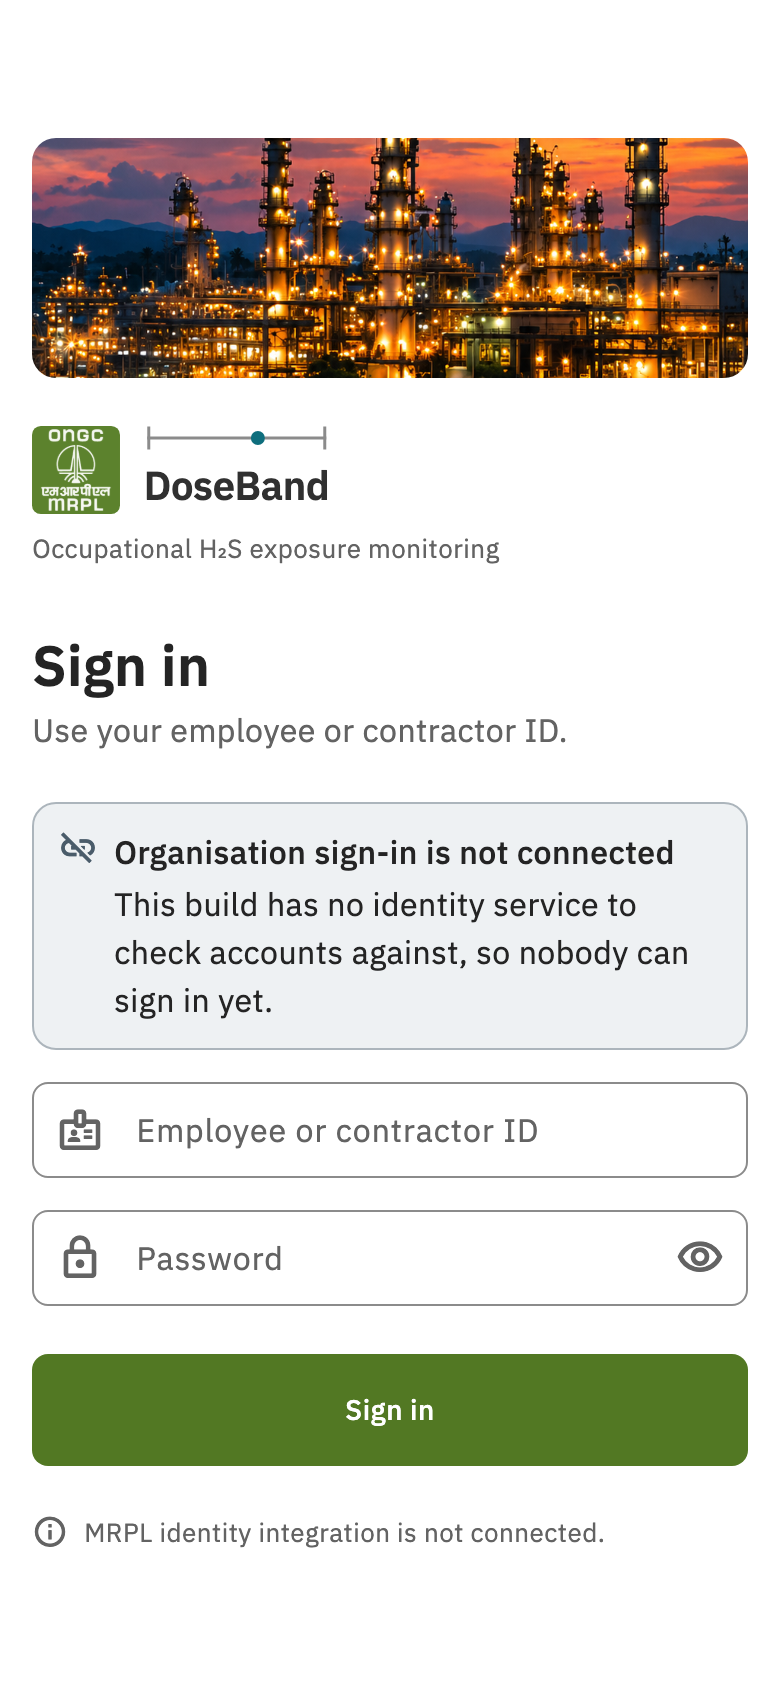
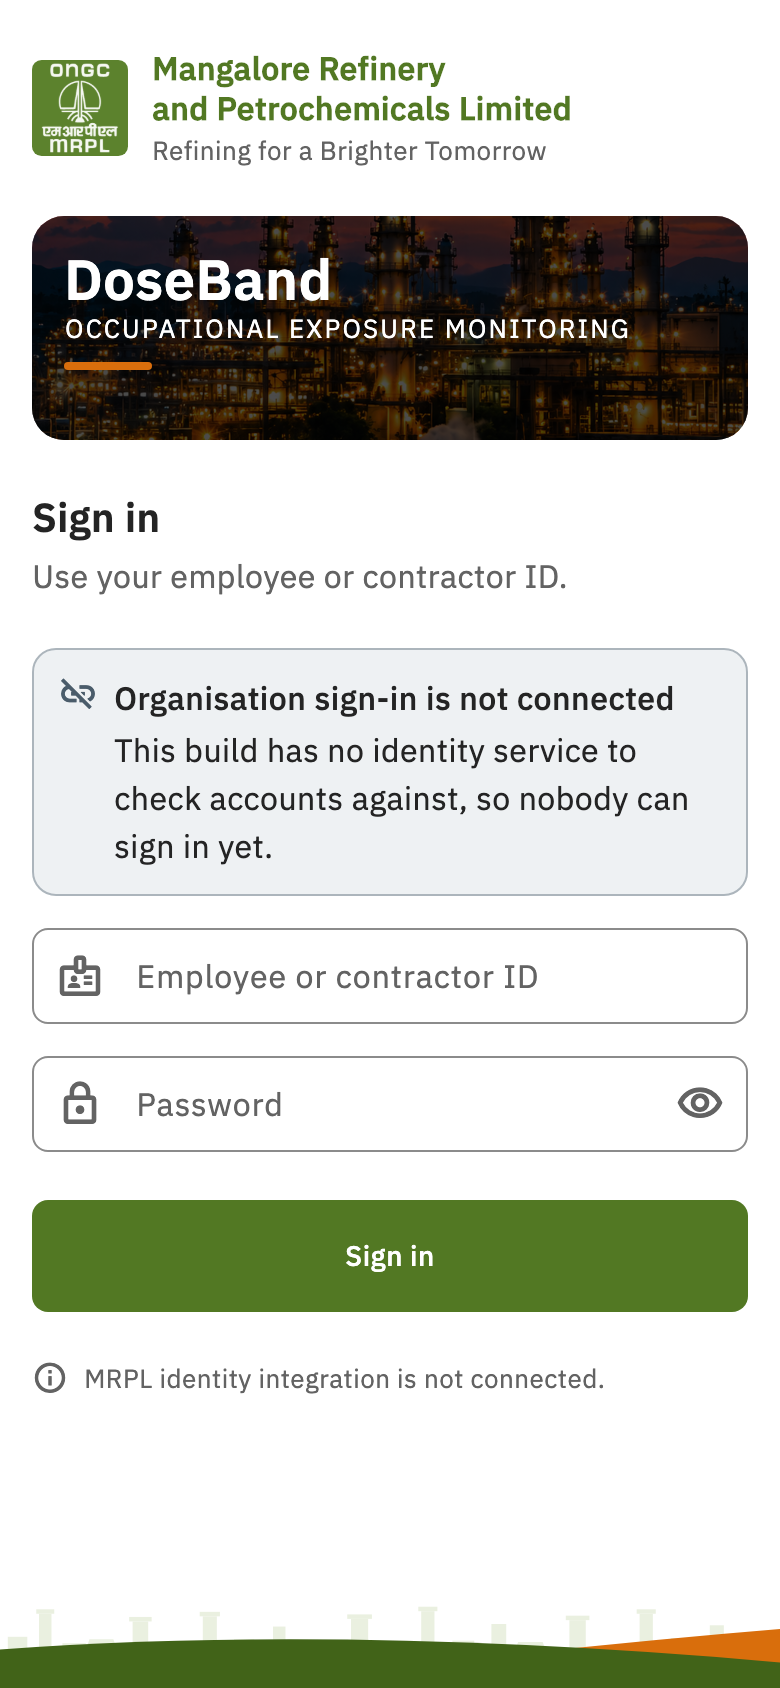
release: 0.4.0+4 — UI recovery; docs and screenshot index
Version 0.4.0+4. UI recovery note (sources, what came back, what did
not and why, responsive rules, the Home fold trade-off); screenshot
index regenerated with recovered, preserved and flow renders; test
matrix and functional matrix updated.

diff --git a/app/lib/core/env/app_version.dart b/app/lib/core/env/app_version.dart
@@ -8,4 +8,4 @@
 /// specimen.** Two builds carrying the same version make their captures
 /// indistinguishable, and a mid-session hotfix is exactly when that happens.
 /// APP-INTEGRATION-01 §49.
-const String appVersion = '0.3.0+3';
+const String appVersion = '0.4.0+4';

diff --git a/docs/design/screenshots/product-build-v1/README.md b/docs/design/screenshots/product-build-v1/README.md
@@ -1,30 +1,59 @@
 # Product Build v1 — screenshot index
 
-Rendered from the golden tests at `8aa5355`/0.3.0+3 (Flutter test renderer,
-IBM Plex, light theme, presentation dataset, clock pinned to 27 Sep 2026).
-These are test renders, **not phone captures**: no physical device was
-available in this run. Each was inspected by eye.
+Rendered from the golden tests at 0.4.0+4 (UI recovery; Flutter test
+renderer, IBM Plex, light theme, presentation dataset, clock pinned to
+27 Sep 2026). These are test renders, **not phone captures**: no physical
+device was available. Each was inspected by eye.
 
-| Surface (§167) | File |
+## Recovered (corrective directive §3)
+
+| Surface | File |
 |---|---|
-| Splash | `auth-splash-light.png` |
-| Sign in | `auth-sign-in-light.png`, `auth-sign-in-refused.png`, `auth-sign-in-not-connected.png` (production), `auth-presentation-accounts.png` |
-| Worker Home — no DoseBand (A) | `home-a-no-doseband.png` |
-| Pre-use validation | covered by `test/doseband/claim_journey_test.dart`; no golden (camera) |
+| Splash | `auth-splash-light.png`; `auth-splash-320-text200.png`, `auth-splash-landscape-844x390.png`, `auth-splash-tablet-800x1280.png` |
+| Sign in / role entry | `auth-sign-in-light.png`, `auth-sign-in-320.png`, `auth-sign-in-compact-large-text.png`, `auth-sign-in-refused.png`, `auth-sign-in-not-connected.png` (production), `auth-presentation-accounts.png` (role cards) |
+| Worker Home — no DoseBand (A) | `home-a-no-doseband.png`, `home-a-work-recorded.png`, `foundation-shell-home-390.png` |
+| Worker Home — assigned (B) | `home-b-assigned-simulated.png` (development simulation only; a real claim starts monitoring in the same step) |
 | Worker Home — monitoring (C) | `home-c-monitoring.png` |
-| Final scan due (D) | `home-d-final-scan.png` |
-| Completed (E) | `home-e-complete.png` |
+| Worker Home — final scan due (D) | `home-d-final-scan.png` |
+| Worker Home — complete (E) | `home-e-complete.png` |
 | Untrusted clock | `home-attention-untrusted-clock.png` |
-| History | `worker-history.png` |
-| Profile | `worker-profile.png` |
+
+## Preserved (byte-identical goldens before and after the recovery)
+
+| Surface | File |
+|---|---|
+| History populated / empty | `foundation-shell-history-390.png`, `worker-history.png` / `history-empty.png` |
+| Scan (contextual tab) | `foundation-shell-scan-390.png` |
+| Safety | `foundation-shell-safety-390.png`, `safety-hub.png` |
+| Profile | `foundation-shell-profile-390.png`, `worker-profile.png` |
+| Five-item floating navigation | every `foundation-shell-*` render |
+
+## DoseBand flow
+
+| Step | File |
+|---|---|
+| Scanned band, before the photograph | `doseband-check.png` |
+| Pre-use READY / CANNOT VERIFY / REPLACE | `doseband-pre-use-ready.png`, `doseband-pre-use-cannot-verify.png`, `doseband-pre-use-replace.png` |
+| Final scan, wrong band refused | `doseband-final-scan-wrong-band.png` |
+| Final camera | none: needs a camera; covered by `test/doseband/claim_journey_test.dart` with a fake camera port |
+| Result / refusal | `app/test/golden/goldens/result-screen-*.png` (unchanged) |
+
+## Other workspaces (unchanged in this run)
+
+| Surface | File |
+|---|---|
 | Supervisor overview / team / pipeline / exceptions / worker | `supervisor-*.png` |
 | HSE overview / register / traceability / reports | `hse-*.png` |
 | Management overview / monitoring / trends | `management-*.png` |
 | Admin overview / people / inventory / band + QR label / system | `admin-*.png` |
-| Safety | `safety-hub.png` |
-| Development simulation entry | `worker-08-badge-assignment.png` |
-| 200 % text, small phone (320) | `foundation-shell-home-320-text200.png`, `auth-sign-in-compact-large-text.png` |
-| Large phone (430) | `foundation-shell-home-430.png` |
-| Tablet / wide (rail) | `foundation-shell-home-rail-1280x800.png` |
-| Landscape | `foundation-shell-home-landscape-844x390.png` |
-| Offline state | none: the build has no connectivity detection and makes no network calls; every screen states records are on this device |
+
+## Sizes
+
+| Dimension | File |
+|---|---|
+| Small phone 320 at 200 % text | `foundation-shell-home-320-text200.png`, `auth-splash-320-text200.png` |
+| 360 | `foundation-shell-home-360.png` |
+| Large phone 430 | `foundation-shell-home-430.png` |
+| Tablet / wide (rail) | `foundation-shell-home-rail-1280x800.png`, `auth-splash-tablet-800x1280.png` |
+| Landscape | `foundation-shell-home-landscape-844x390.png`, `auth-splash-landscape-844x390.png` |
+| Offline | `foundation-state-offline-in-shell.png` is the component state. The build has no connectivity detection and makes no network calls, so no screen ever enters it. |

diff --git a/docs/design/ui-recovery-0.4.0.md b/docs/design/ui-recovery-0.4.0.md
@@ -1,0 +1,71 @@
+# UI recovery — 0.4.0+4
+
+The corrective directive asked for three approved screens back (splash,
+entry, the rich Worker Home) **as recovery, not redesign**, while keeping
+the newer navigation, History and Scan. It was done by lifting the
+presentation structure out of git history and binding it to the current
+state model. There was no rollback: nothing outside the three screens
+was reverted.
+
+## Sources
+
+| Screen | Recovered from | Current file |
+|---|---|---|
+| Worker Home cards | `0908b43` `home_cards.dart`, `home_screen.dart` | `app/lib/features/home/presentation/home_cards.dart`, `app/lib/features/home/home_screen.dart` |
+| Splash | `5db5c70` `splash_screen.dart`, `auth_background.dart` | `app/lib/features/auth/presentation/screens/splash_screen.dart` |
+| Entry header, footer wave | `5db5c70` `auth_brand_header.dart`, `auth_background.dart`, `role_selection_screen.dart` | `app/lib/features/auth/presentation/widgets/corporate_brand.dart`, `sign_in_screen.dart` |
+
+## What came back
+
+* **Home:**
+  * the refinery header with "Safe People / Sustainable Operations";
+  * an identity card overlapping it, showing name, type, ID, company and local / not-synced storage;
+  * a TODAY'S SHIFT card showing Site, Department, Shift, Work area, Gate pass (masked) and Date;
+  * a WORK CONTEXT card showing Job, PTW, JSA, Toolbox, Supervisor;
+  * the strong green monitoring card, with the orange ACTIVE marker while a period runs;
+  * one state-driven action.
+* **Splash:**
+  * full-screen refinery at dusk;
+  * the MRPL mark and organisation on a plate;
+  * the safety message with its orange rule;
+  * the DoseBand lockup, with the orange progress bar, on a night-green band.
+* **Entry:**
+  * the MRPL header with "Refining for a Brighter Tomorrow";
+  * a refinery strip with the DoseBand lockup;
+  * the skyline footer wave;
+  * the five role cards, now for presentation accounts, one card per person and role.
+
+## What deliberately did not come back
+
+| Old behaviour | Why | Now |
+|---|---|---|
+| DEMO chip on every Home row | Repetition taught people to ignore it | Simulation is marked once, where it applies (the band) |
+| Supervisor string from demo data | Invented | Supervisor comes from the directory, or reads "Not recorded" |
+| Static Home content | Ignored the workflow | Every value comes from the directory, the recorded context or the session |
+| Gradients (splash fade, header, footer sweep) | No-gradient rule (§66; ratchet at 0) | Solid translucent scrims and panels |
+| Four-tab dark navigation | Superseded | The five-item floating navigation, unchanged |
+| Role picker as the sign-in | Roles come from the directory | ID + password; role cards only in the presentation-accounts sheet (non-production) |
+
+## Rules the recovered screens keep
+
+* Home never shows ppm or ppm·h. A green card means "monitoring", not "safe".
+* Work context reads "Recorded by you. Not checked against a permit system; DoseBand does not authorise work."
+* The toolbox talk reads "Acknowledged", never "completed".
+* A gate pass is masked to its last four characters.
+* Presentation accounts are described as sample accounts on this device, and no credentials are shown.
+
+## Responsive behaviour
+
+| Element | Behaviour |
+|---|---|
+| Home header | Stacks its two lockups below 340 px or above 130 % text; caps its own text scale at 150 % (brand only — content scales in full) |
+| Identity card | Moves storage under the details below 340 px; stacks avatar over details above 130 % text |
+| Splash | Caps text at 130 % (a transient composition; its message is also in the semantics label). Bounds the mark by height as well as width; plate at most 480 px wide. Scrolls rather than overflows |
+| Sign-in | The footer wave follows the form and never covers it |
+
+## Known trade-off
+
+On a 390 × 844 phone, Home's primary action sits below the first screen,
+because the directive fixes the order: shift, then work context, then the
+monitoring card and the action. The centre Scan button in the navigation is
+always visible and opens the contextual Scan for the same state.

diff --git a/docs/product/functional-completeness-matrix.md b/docs/product/functional-completeness-matrix.md
@@ -1,4 +1,4 @@
-# Functional completeness matrix — Product Build v1 (0.3.0+3)
+# Functional completeness matrix — Product Build v1 (0.4.0+4)
 
 REAL = works against real inputs · LOCAL_REAL = works, on this device only ·
 SIMULATED = labelled simulation · NOT_CONNECTED = boundary exists, nothing
@@ -7,13 +7,13 @@ PLANNED = not built.
 
 | Capability | Status | Notes |
 |---|---|---|
-| Splash, sign-in, sign-out | LOCAL_REAL | Presentation accounts, salted PBKDF2 verifiers |
+| Splash, sign-in, sign-out | LOCAL_REAL | Presentation accounts, salted PBKDF2 verifiers; approved splash and entry identity recovered in 0.4.0 |
 | Organisation identity (MRPL directory, SSO) | NOT_CONNECTED | Production flavour shows it |
 | Session restore | LOCAL_REAL | Person + role only, re-checked |
 | Role from identity; controlled workspace switch | LOCAL_REAL | Yashvi: management ⇄ administrator |
 | Route gate per workspace | LOCAL_REAL | Navigation only |
 | Worker profile (company record, read-only) | LOCAL_REAL | Presentation data; initials, no photos |
-| Worker Home states A–E | LOCAL_REAL | B is the check screen itself |
+| Worker Home states A–E | LOCAL_REAL | Approved rich Home recovered in 0.4.0 (header, identity, today's shift, work context, monitoring card, one action). B is the check screen itself; Home B appears only in the development simulation |
 | QR decode on camera frames | REAL | zxing2, pure Dart; not yet run on a phone |
 | Typed serial fallback | LOCAL_REAL | Same registry checks |
 | DoseBand registry, eligibility | LOCAL_REAL | Presentation inventory |

diff --git a/docs/engineering/product-build-v1-test-matrix.md b/docs/engineering/product-build-v1-test-matrix.md
@@ -15,9 +15,13 @@
 on hardware; real camera permission prompts; real QR decoding from a
 camera sensor; performance on low-end hardware.
 
-## Test inventory (0.3.0+3)
+## Test inventory (0.4.0+4)
 
-App 1 038 · engine 312 · parity 394/394 · geometry drift 75.
+App 1 049 · engine 312 · parity 394/394 · geometry drift 75.
+UI recovery (0.4.0+4) added goldens for the splash at 320 px / 200 % text,
+landscape and tablet; sign-in at 320 px; the DoseBand check and pre-use
+outcomes (`test/golden/doseband_flow_golden_test.dart`); Home state B;
+empty History. 0.3.0+3 had App 1 038.
 New suites: `test/operations/*` (store, registry, lifecycle, persistence,
 §107 authorisation), `test/auth/auth_flow_test.dart`,
 `test/doseband/*` (QR contract, pre-use rules, claim journey through the
@@ -38,3 +42,4 @@ UI), `test/hse/hse_workspace_test.dart`, `test/admin/admin_surface_test.dart`,
 | Low | UX | No connectivity indicator (nothing uses the network yet) | Add with sync |
 | Low | UX | Pre-use photograph is not archived as evidence | Archive via the capture archive |
 | Low | Legacy | Some governance screens use the older corporate components | Migrate to Phase 0 components |
+| Low | UX | Home's primary action is below the first screen on a 390 × 844 phone (directive's card order); the centre Scan is always visible | Revisit order after device testing |
